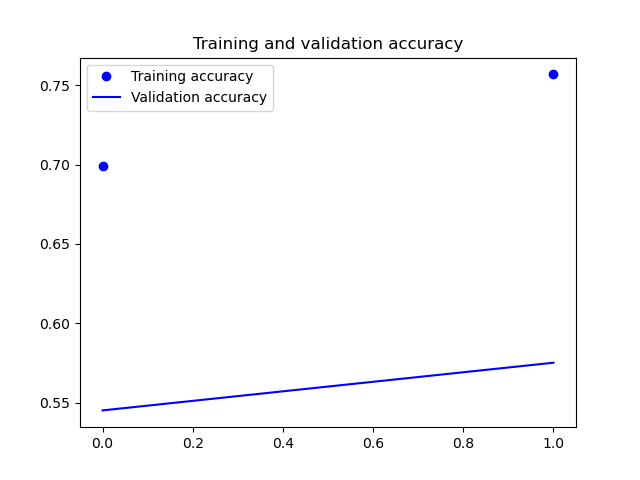
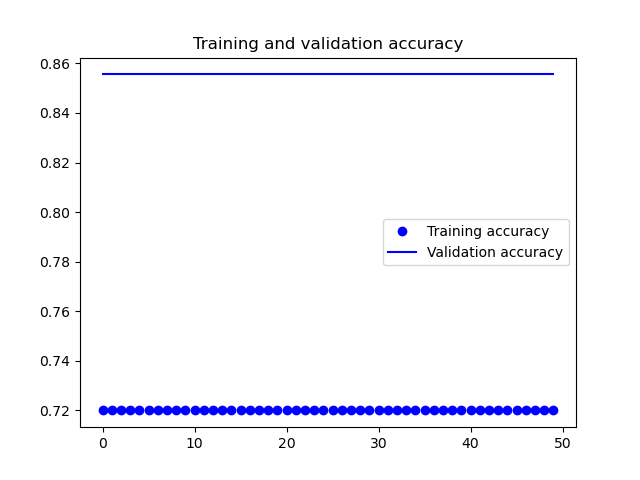
early stopping added to more models

diff --git a/models/autoencoder.py b/models/autoencoder.py
@@ -33,13 +33,13 @@ from models.embedding.embedding import layers_embedding
 
 
 def main():
-    dataset = 'Denmark'
+    dataset = 'uci'
     batch_size = 32 # 64
-    epochs = 2 # 200
-    repeats = 2
-    historical_co2 = False
-    embedding = True
-    feature_set = 'full'
+    epochs = 50 # 200
+    repeats = 10
+    historical_co2 = True
+    embedding = False
+    feature_set = 'CO2'
     name = 'autoencoder'
 
     X_train, X_test_1, X_test_2, X_test_combined, y_train, y_test_1, y_test_2, y_test_combined = load_dataset(dataset=dataset, feature_set=feature_set, normalize=True, embedding=embedding, historical_co2=historical_co2)
@@ -52,7 +52,7 @@ def main():
     classifiers_train = []
     encoded_representations = []
     for run in range(repeats):
-        print('Run ' + str(run + 1))
+        print('Run: ' + str(run + 1) + ', Dataset: ' + dataset + ', Model: ' + name)
         set_random_seed(run)
         acc_train, acc_test_1, acc_test_2, acc_test_combined, autoencoder_train, classifier_train, encoded_representation, y_test_combined = run_model(
             X_train, X_test_1, X_test_2, X_test_combined, y_train, y_test_1, y_test_2, y_test_combined, dataset, batch_size, epochs, embedding, historical_co2, feature_set, name)
@@ -85,12 +85,17 @@ def run_model(X_train, X_test_1, X_test_2, X_test_combined, y_train, y_test_1, y
     else:
         X_train_target = X_train
 
+    callbacks_list = [
+        keras.callbacks.EarlyStopping(monitor='val_binary_accuracy', patience=10)
+    ]
+
     autoencoder_train = autoencoder_for_training.fit(
         X_train, X_train_target,
         batch_size = batch_size,
         epochs = epochs,
         validation_split=0.2,
         shuffle = True,
+        callbacks = callbacks_list,
     )
 
     # Train classifier:

diff --git a/models/embedding/embedding.py b/models/embedding/embedding.py
@@ -19,7 +19,7 @@ from utils import load_dataset, get_embeddings, summarize_results
 
 
 def main():
-    dataset = 'Australia'
+    dataset = 'Italy'
     feature_set='full'
     historical_co2=False
     batch_size = 32
@@ -52,7 +52,7 @@ def run_embedding(dataset, feature_set, historical_co2, batch_size, epochs, repe
     scores_test_2 = []
     scores_test_combined = []
     for run in range(repeats):
-        print('Run ' + str(run + 1))
+        print('Run: ' + str(run + 1) + ', Dataset: ' + dataset + ', Model: ' + model_name)
         
         acc_train, acc_test_1, acc_test_2, acc_test_combined, model = run_model(X_train, X_test_1, X_test_2, X_test_combined, y_train, y_test_1, y_test_2, y_test_combined, batch_size, epochs, model_layers)
         
@@ -83,7 +83,7 @@ def run_model(X_train, X_test_1, X_test_2, X_test_combined, y_train, y_test_1, y
                             min_lr=0.0001),
         ModelCheckpoint('best_model_weights.hdf5', monitor='binary_accuracy',
                             save_best_only=True),
-        keras.callbacks.EarlyStopping(monitor='binary_accuracy', patience=10)
+        keras.callbacks.EarlyStopping(monitor='val_binary_accuracy', patience=10)
     ]
 
     model.fit(

diff --git a/models/test_models.py b/models/test_models.py
@@ -49,7 +49,7 @@ def main():
     scores_test_2 = []
     scores_test_combined = []
     for run in range(repeats):
-        print('Run ' + str(run + 1))
+        print('Run: ' + str(run + 1) + ', Dataset: ' + dataset + ', Model: ' + model_name)
         model = build_model(X_train.shape[0], X_train.shape[-1], 1, batch_size, epochs, models[model_name], model_name)
         acc_train, acc_test_1, acc_test_2, acc_test_combined = run_model(X_train, X_test_1, X_test_2, X_test_combined, y_train, y_test_1, y_test_2, y_test_combined, model)
         scores_train.append(acc_train)
@@ -67,7 +67,7 @@ def build_model(n_timesteps, n_features, target_shape, batch_size, epochs, model
 
     def train_model(model, x_train, y_train) -> keras.callbacks.History:
         callbacks_list = [
-            keras.callbacks.EarlyStopping(monitor='binary_accuracy', patience=10)
+            keras.callbacks.EarlyStopping(monitor='val_binary_accuracy', patience=10)
         ]
         return model.fit(
             x_train, y_train,

diff --git a/utils.py b/utils.py
@@ -159,16 +159,18 @@ def load_dataset_brick(country):
     dataset = pd.concat([dataset_1, dataset_2], axis=1)
     dataset = dataset.sort_index()
 
-    dataset = dataset.dropna()
     dataset = dataset.loc[:,~dataset.columns.duplicated()] # Drop the second Room_ID column
     dataset['Room_ID'] = dataset['Room_ID'].astype('category')
 
     dataset = dataset.rename(columns=translate_columns)
 
+    dataset = dataset[['Temperature', 'Humidity', 'CO2', 'Room_ID', 'Occupancy']]
+    if country == 'Italy':
+        dataset = dataset.loc[:, dataset.columns != 'Humidity']
+    dataset = dataset.dropna()
+
     if country == 'Denmark':
         dataset['Occupancy'][dataset['Occupancy'] > 0] = 1
-
-    dataset = dataset[['Temperature', 'Humidity', 'CO2', 'Room_ID', 'Occupancy']]
 
     return dataset
 

diff --git a/README.md b/README.md
@@ -37,6 +37,7 @@ These models no longer use PCA or TSNE for the representation. Instead, the size
 
 - New datasets (Australia, Denmark, Italy)
 Used with models CNN, LSTM and Autoencoder (TODO)
+Italy doesn't include the Humidity-feature because of the large amount of nan-values.
 0.33 test size with shuffle=False
 
 | dataset   | feature_set | batch_size | epochs | repeats | historical_co2 | embedding | shaped |
